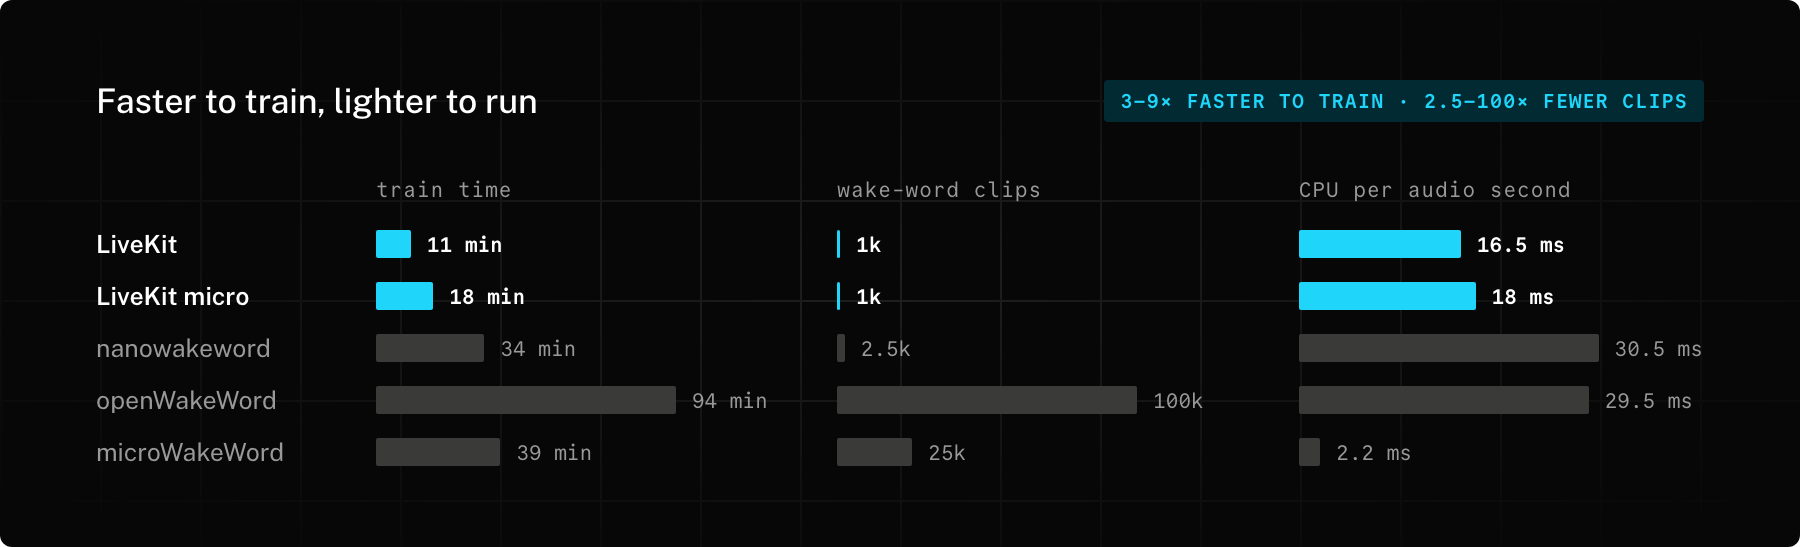
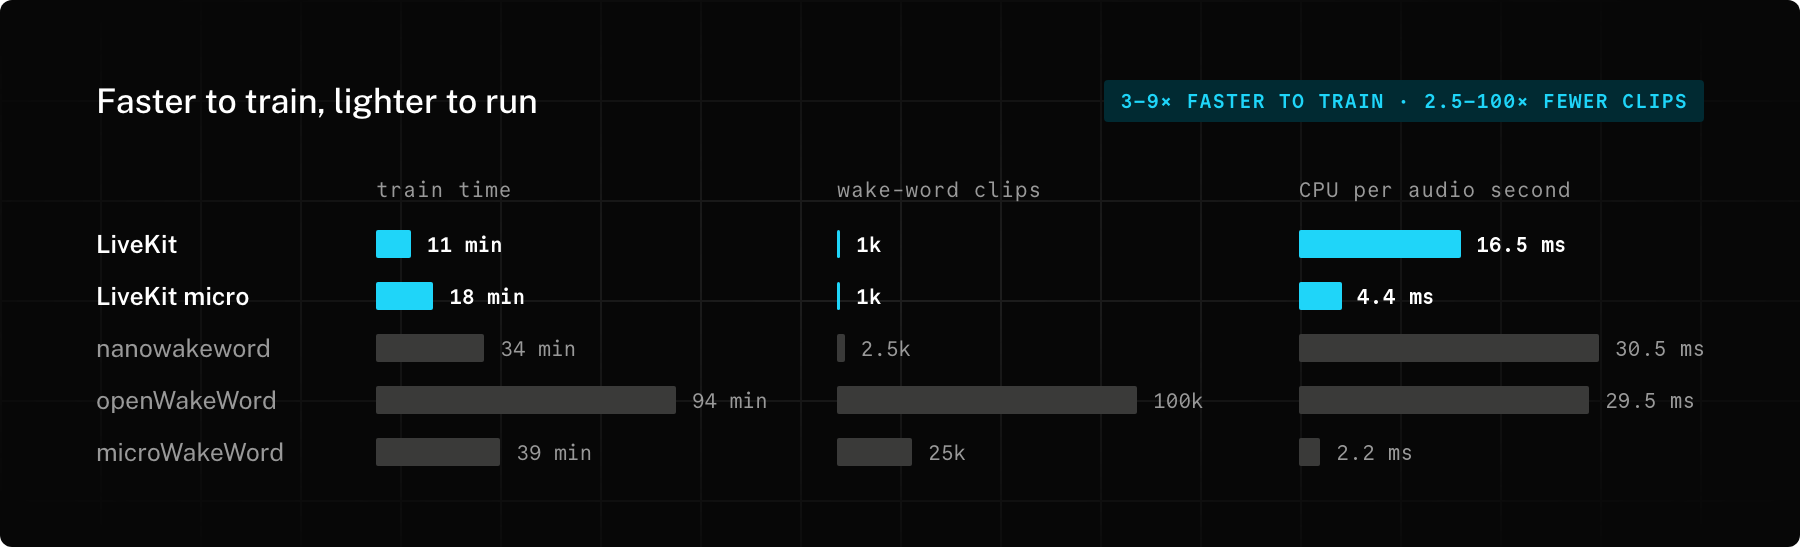
Speed chart: LiveKit micro runs at 4.4 ms per audio second, not 18 (#109)
The int8 micro model was re-timed on the same cloud machine with the original
latency script (one core, one thread, median of 3 runs over 60 s). The old 18 ms
timed an earlier MicroRuntime; the other engines keep their numbers.

diff --git a/README.md b/README.md
@@ -54,11 +54,11 @@ respectively. Streaming inference used 16.5, 30.5 and 29.5 ms of CPU time per se
 
 <picture>
   <source media="(prefers-color-scheme: dark)" srcset="https://raw.githubusercontent.com/livekit/livekit-wakeword/main/.github/assets/speed_dark.png">
-  <img width="100%" alt="Faster to train, lighter to run. Train time: LiveKit 11 min, LiveKit micro 18 min, nanowakeword 34, openWakeWord 94, microWakeWord 39. Wake-word clips: 1k and 1k against 2.5k, 100k and 25k. CPU per second of audio: 16.5 and 18 ms against 30.5, 29.5 and 2.2 ms." src="https://raw.githubusercontent.com/livekit/livekit-wakeword/main/.github/assets/speed_light.png">
+  <img width="100%" alt="Faster to train, lighter to run. Train time: LiveKit 11 min, LiveKit micro 18 min, nanowakeword 34, openWakeWord 94, microWakeWord 39. Wake-word clips: 1k and 1k against 2.5k, 100k and 25k. CPU per second of audio: 16.5 and 4.4 ms against 30.5, 29.5 and 2.2 ms." src="https://raw.githubusercontent.com/livekit/livekit-wakeword/main/.github/assets/speed_light.png">
 </picture>
 
 The micro model detected 78% of wake words at the same false-alarm rate. microWakeWord scored
-0% at that operating point, although it used less CPU: 2.2 ms per second of audio versus 18 ms
+0% at that operating point, although it used less CPU: 2.2 ms per second of audio versus 4.4 ms
 for LiveKit micro. These results compare the complete training workflows for one phrase,
 including their different speech generators; they do not isolate encoder performance.
 
